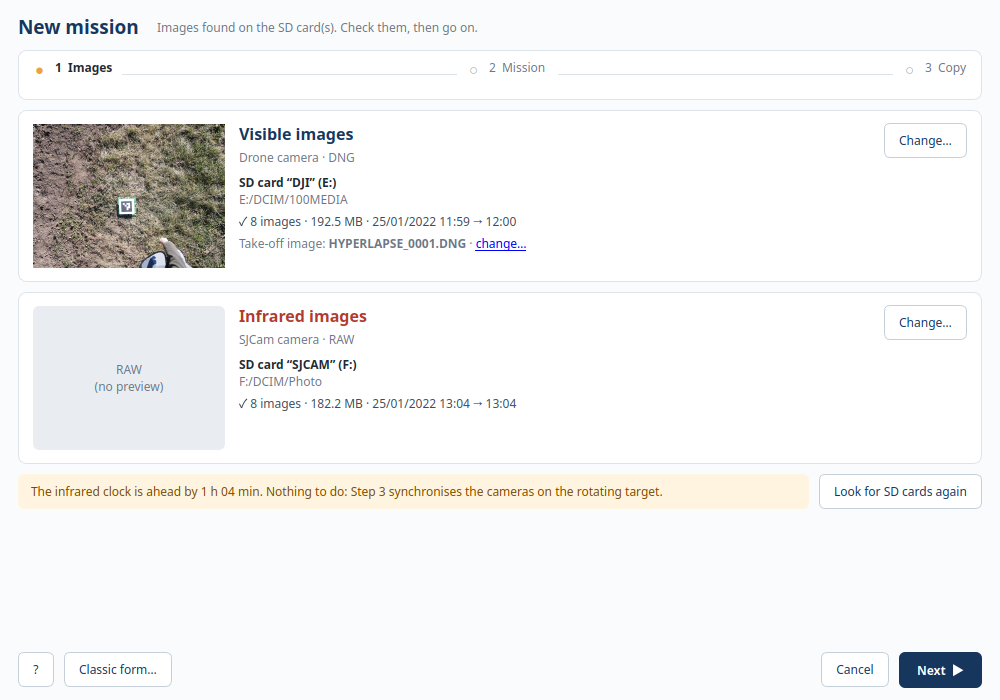
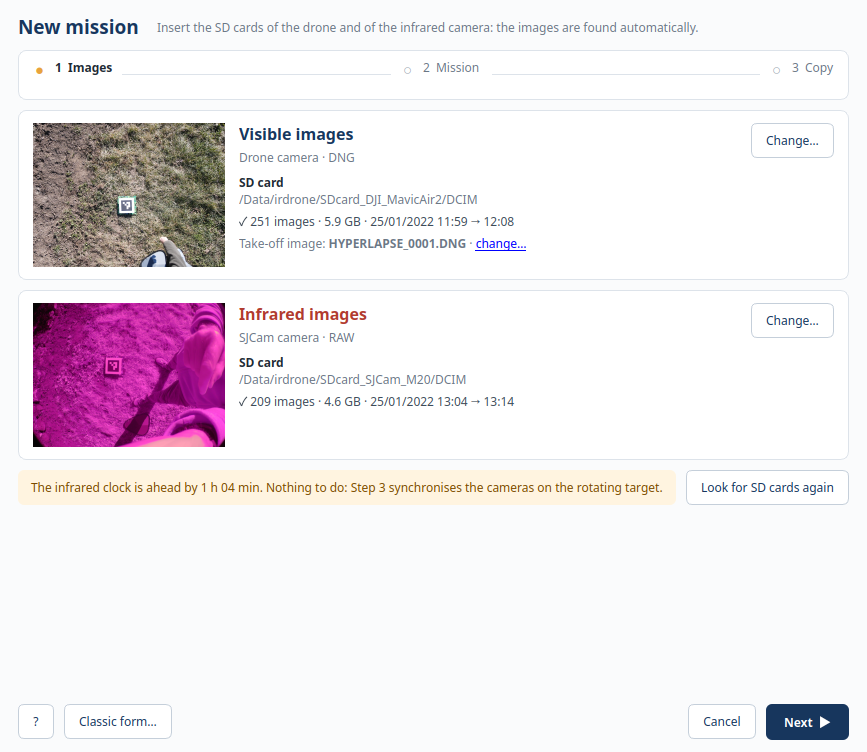
Step 1: infrared card shows the SJCam JPEG (same name as the first RAW, or the next one on the M20)

diff --git a/irdrone_wizard/mission_setup.py b/irdrone_wizard/mission_setup.py
@@ -184,6 +184,28 @@ def takeoff_image(vis: FolderSummary) -> Optional[Path]:
     return vis.files[0] if vis.files else None
 
 
+def nir_preview_jpeg(nir: FolderSummary) -> Optional[Path]:
+    """A JPEG to show for the infrared images (the RAW have no preview). The
+    SJCam writes a JPEG beside the RAW, under the same name or, on the M20,
+    under the next name (..._001.RAW, ..._002.JPG): the JPEG with the same
+    name as the first RAW, else the first JPEG that follows it."""
+    if not nir.files:
+        return None
+    first = nir.files[0]
+    for ext in (".JPG", ".jpg", ".jpeg", ".JPEG"):
+        same = first.with_suffix(ext)
+        if same.is_file():
+            return same
+    try:
+        jpegs = sorted((p for p in nir.folder.iterdir()
+                        if p.is_file() and p.suffix.lower() in (".jpg", ".jpeg")),
+                       key=lambda p: p.name.lower())
+    except OSError:
+        return None
+    after = [p for p in jpegs if p.name.lower() > first.name.lower()]
+    return (after or jpegs or [None])[0]
+
+
 def read_takeoff(path: Path) -> dict:
     """mission_parameters_light of the classic form, from the EXIF of the take-off
     image (no network: the place is added by add_location)."""

diff --git a/tests/test_new_mission.py b/tests/test_new_mission.py
@@ -207,3 +207,23 @@ class MissionDetailsTest(unittest.TestCase):
         d.btn_save.click()
         self.assertIn("Description", d.changed)
         self.assertEqual(MS.read_mission_parameters(self.folder)["Description"], "Plot 12")
+
+
+class NirPreviewTest(unittest.TestCase):
+    def folder(self, names):
+        d = Path(tempfile.mkdtemp())
+        for n in names:
+            (d / n).write_bytes(b"x")
+        return MS.summarize(d, [".raw"])
+
+    def test_sjcam_m20_jpeg_under_the_next_name(self):
+        s = self.folder(["2022_0125_130413_001.RAW", "2022_0125_130415_002.JPG",
+                         "2022_0125_130416_003.RAW", "2022_0125_130418_004.JPG"])
+        self.assertEqual(MS.nir_preview_jpeg(s).name, "2022_0125_130415_002.JPG")
+
+    def test_jpeg_under_the_same_name_first(self):
+        s = self.folder(["NIR_0001.RAW", "NIR_0001.JPG", "NIR_0000.JPG"])
+        self.assertEqual(MS.nir_preview_jpeg(s).name, "NIR_0001.JPG")
+
+    def test_no_jpeg(self):
+        self.assertIsNone(MS.nir_preview_jpeg(self.folder(["a.RAW"])))

diff --git a/irdrone_wizard/IRD_Interactive_new_mission.py b/irdrone_wizard/IRD_Interactive_new_mission.py
@@ -671,9 +671,9 @@ class NewMissionDialog(QDialog):
         else:
             self.nir = summary
             self.card_nir.set_found(summary, origin)
-            jpg = next((summary.folder / (f.stem + ext) for f in summary.files[:1]
-                        for ext in (".JPG", ".jpg") if (summary.folder / (f.stem + ext)).is_file()), None)
+            jpg = MS.nir_preview_jpeg(summary)
             self.card_nir.set_preview(QPixmap(str(jpg)) if jpg else None, "RAW\n(no preview)")
+            self.card_nir.preview.setToolTip(jpg.name if jpg else "")
         self._check_page_images()
 
     def _set_takeoff(self, path: Optional[Path]):
